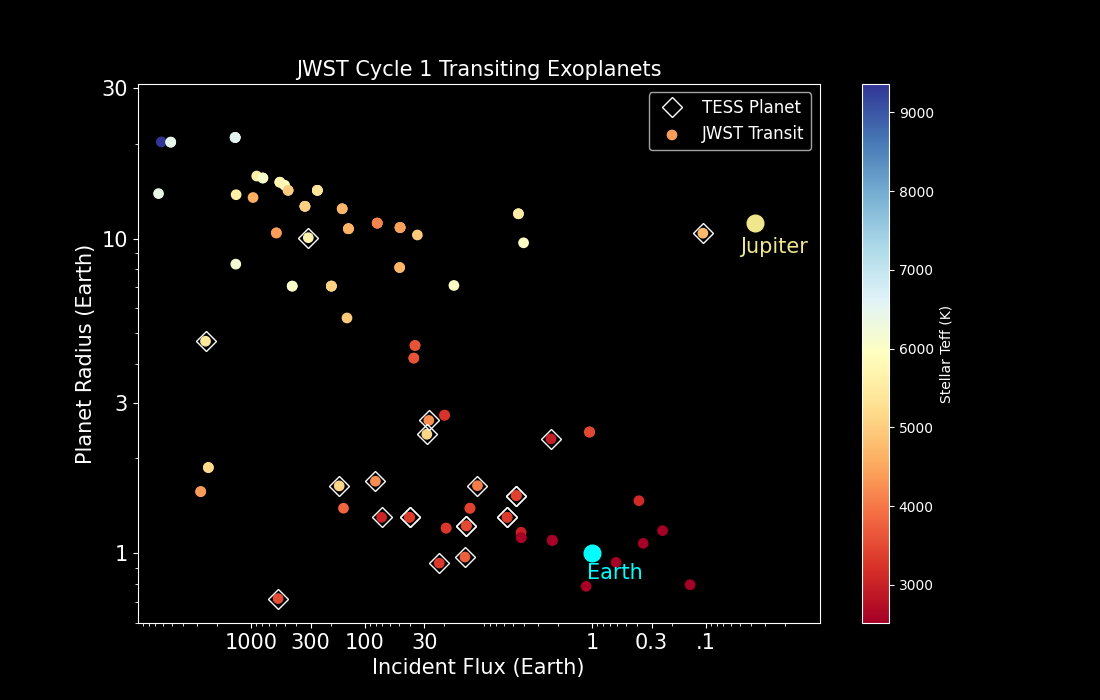
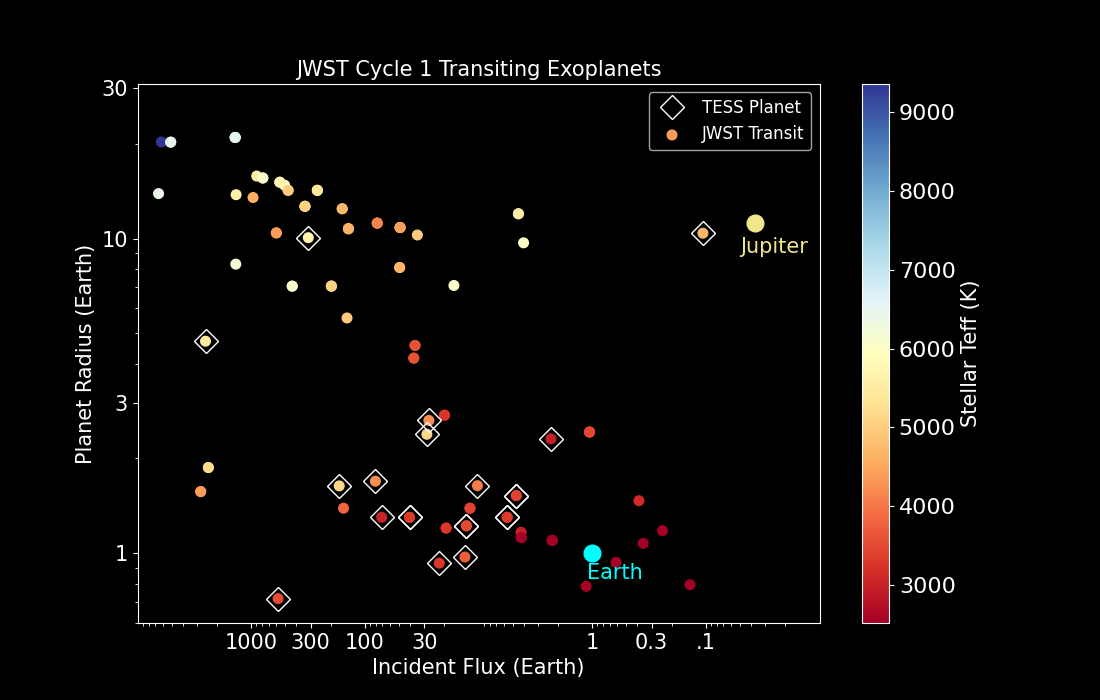
adding tess code file

diff --git a/cycle1_exoplanets_tess.py b/cycle1_exoplanets_tess.py
@@ -114,6 +114,8 @@ final_uniqueprev.to_csv(ddir + "transitspec_planet_prop_tess.csv")
 
 
 #%%
+#Read in my tables, which were created above
+#Adjust the parameters for one that is known to be in correct in exo.mast
 final_uniqueprev = pd.read_csv(ddir+"transitspec_planet_prop_tess.csv")
 final_jwstdf = pd.read_csv(ddir + "jwst_cycle1_planet_prop_tess.csv")
 
@@ -311,6 +313,8 @@ plt.savefig(ddir+"cycle1_planets_tesspl.png")
 
 #%%
 #Teq vs Radius and stellar temperature marking the TESS planets.
+#if set ot True it will mark TESS planets
+mark_tess = True
 
 transit = jwstdf[ (jwstdf['obstype'] == "transit")]
 
@@ -325,15 +329,18 @@ Mj = 11.2089
 plt.style.use('dark_background')
 
 plt.figure(figsize=(9.3,8))
-fnt=15
+fnt=16
 
 
 plt.scatter(transit['Tp'], transit['Rp']*Mj, marker='o', c=transit['Teff'], cmap='RdYlBu',
-              label="JWST Transit", alpha=1, s=45)
-plt.colorbar(label='Stellar Teff (K)')
+              label="JWST Transit", alpha=1, s=47)
+cb = plt.colorbar(label='Stellar Teff (K)')
+cb.set_label(label="Stellar Teff (K)", size=fnt)
+cb.ax.tick_params(labelsize=fnt+1)
 
-plt.plot(tess_transit['Tp'], tess_transit['Rp']*Mj, 'D', color="white", 
-             fillstyle='none', ms=10, label="TESS Planet")
+if mark_tess:
+    plt.plot(tess_transit['Tp'], tess_transit['Rp']*Mj, 'D', color="white", 
+             fillstyle='none', ms=11, label="TESS Planet",lw=2)
 
 plt.yscale('log', base=10)
 plt.xscale('log', base=10)
@@ -361,11 +368,15 @@ plt.annotate('Earth', (205,.96), color='cyan', fontsize=fnt)
 plt.plot(110, 11.2, 'o', color='khaki', alpha=1, ms=12)
 plt.annotate('Jupiter', (102,11.1), color='khaki', fontsize=fnt)
 
-plt.savefig(ddir+"cycle1_planets_tess_star.png")
-
+if mark_tess:
+    plt.savefig(ddir+"cycle1_planets_tess_star.png")
+else:
+    plt.savefig(ddir+"cycle1_planets_star.png")
 
 #%%
 #In Incident Flux and TESS planets marked.
+
+mark_tess = False
 
 transit = jwstdf[ (jwstdf['obstype'] == "transit")]
 
@@ -383,12 +394,17 @@ plt.figure(figsize=(11,7))
 fnt=15
 
 
-plt.scatter(transit['inFlux'], transit['Rp']*Mj, marker='o', c=transit['Teff'], cmap='RdYlBu',
-              label="JWST Transit", alpha=1, s=45)
-plt.colorbar(label='Stellar Teff (K)')
+plt.scatter(transit['inFlux'], transit['Rp']*Mj, marker='o', c=transit['Teff'], 
+            cmap='RdYlBu',
+            label="JWST Transit", alpha=1, s=48)
+#plt.colorbar(label='Stellar Teff (K)')
+cb = plt.colorbar(label='Stellar Teff (K)')
+cb.set_label(label="Stellar Teff (K)", size=fnt)
+cb.ax.tick_params(labelsize=fnt+1)
 
-plt.plot(tess_transit['inFlux'], tess_transit['Rp']*Mj, 'D', color="white", 
-             fillstyle='none', ms=10, label="TESS Planet")
+if mark_tess:
+    plt.plot(tess_transit['inFlux'], tess_transit['Rp']*Mj, 'D', color="white", 
+             fillstyle='none', ms=12, label="TESS Planet")
 
 plt.yscale('log', base=10)
 plt.xscale('log', base=10)
@@ -416,8 +432,10 @@ plt.annotate('Earth', (1.1,0.83), color='cyan', fontsize=fnt)
 plt.plot(.037, 11.2, 'o', color='khaki', alpha=1, ms=12)
 plt.annotate('Jupiter', (.05,9.0), color='khaki', fontsize=fnt)
 
-plt.savefig(ddir+"cycle1_planets_tess_influx.png")
-
+if mark_tess:
+    plt.savefig(ddir+"cycle1_planets_tess_influx.png")
+else:
+    plt.savefig(ddir+"cycle1_planets_influx.png")
 #%%
 #In Incident Flux and wihtout TESS planets
 
@@ -434,7 +452,7 @@ Mj = 11.2089
 plt.style.use('dark_background')
 
 plt.figure(figsize=(11,7))
-fnt=15
+fnt=16
 
 
 plt.scatter(transit['inFlux'], transit['Rp']*Mj, marker='o', c=transit['Teff'], cmap='RdYlBu',
